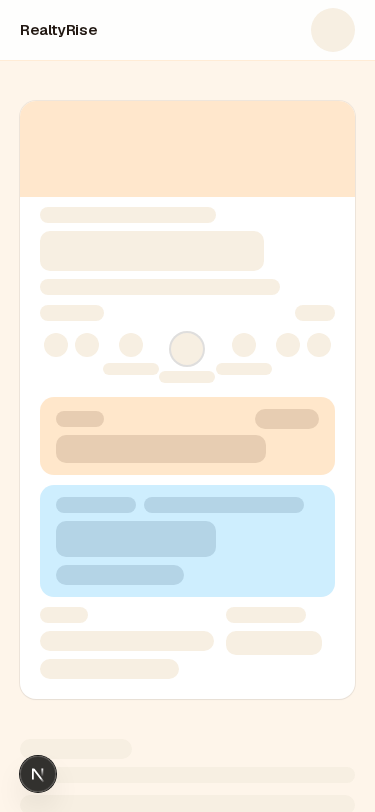
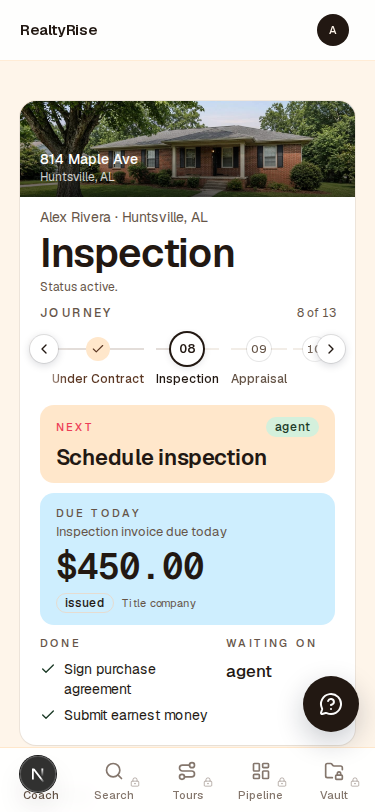
Fix TS-003 proof: wait for transaction hero before screenshot
The prior shot captured loading.tsx skeleton while ten-second nodes
existed in DOM. Wait for the loading shell to clear and assert hero copy
before capturing proof/agent-cc-tensec/03.

diff --git a/e2e/agent-cc-tensec-proof.spec.ts b/e2e/agent-cc-tensec-proof.spec.ts
@@ -20,6 +20,22 @@ async function signInAlex(page: import("@playwright/test").Page) {
   await expect(page).toHaveURL(/\/coach$/);
 }
 
+/** Fixture transaction RSC can sit behind loading.tsx briefly; proofs need painted copy. */
+async function waitForBuyerTransactionHero(
+  page: import("@playwright/test").Page,
+) {
+  await expect(
+    page.getByRole("status", { name: "Loading this transaction" }),
+  ).toHaveCount(0, { timeout: 20_000 });
+  await expect(page.getByTestId("ten-second-hero")).toBeVisible();
+  await expect(page.getByTestId("ten-second-where")).toHaveText("Inspection");
+  await expect(page.getByTestId("ten-second-next")).toContainText(
+    "Schedule inspection",
+  );
+  await expect(page.getByTestId("ten-second-owe")).toContainText("Title company");
+  await page.evaluate(() => window.scrollTo(0, 0));
+}
+
 test("agent-cc tensec proof @375 — TS-001…003 + ACC-001", async ({ page }) => {
   await mkdir(PROOF_DIR, { recursive: true });
 
@@ -48,7 +64,7 @@ test("agent-cc tensec proof @375 — TS-001…003 + ACC-001", async ({ page }) =
   });
 
   await page.goto("/transactions/seed:buyer-a");
-  await expect(page.getByTestId("ten-second-where")).toHaveText("Inspection");
+  await waitForBuyerTransactionHero(page);
   await expect(page.getByText("Opened by id")).toHaveCount(0);
   await expect(page.getByText(/seed:buyer/i)).toHaveCount(0);
   await expect(page.getByText("title_issued")).toHaveCount(0);

diff --git a/proof/agent-cc-tensec/README.md b/proof/agent-cc-tensec/README.md
@@ -6,7 +6,7 @@ Captured by `e2e/agent-cc-tensec-proof.spec.ts` on fixture `/test-login`.
 | --- | --- |
 | `01-buyer-alex-coach-tensec-375.png` | **TS-001** — Alex `/coach` first fold shows five ten-second answers |
 | `02-buyer-pipeline-lock-375.png` | **TS-002** — Pipeline lock no longer claims exclusive ten-second home |
-| `03-buyer-transaction-clean-375.png` | **TS-003** — Transaction hero without eng chrome |
+| `03-buyer-transaction-clean-375.png` | **TS-003** — Transaction hero without eng chrome (screenshot after loading shell clears) |
 | `04-agent-cc-roster-375.png` | **ACC-001** — Casey command center without fixture badge |
 | `05-agent-empty-invite-375.png` | **ACC-001** — Taylor empty book + invite CTA |
 
